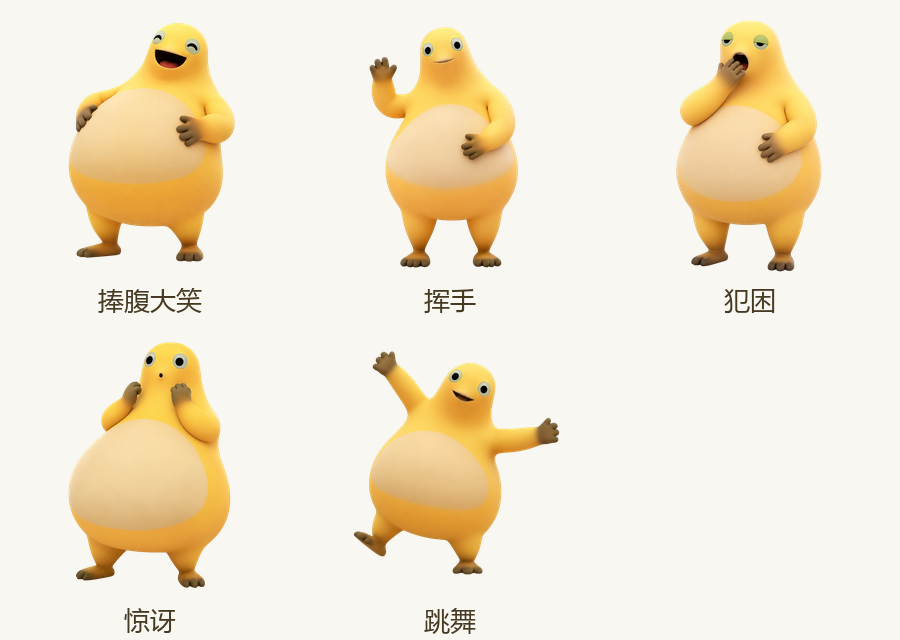
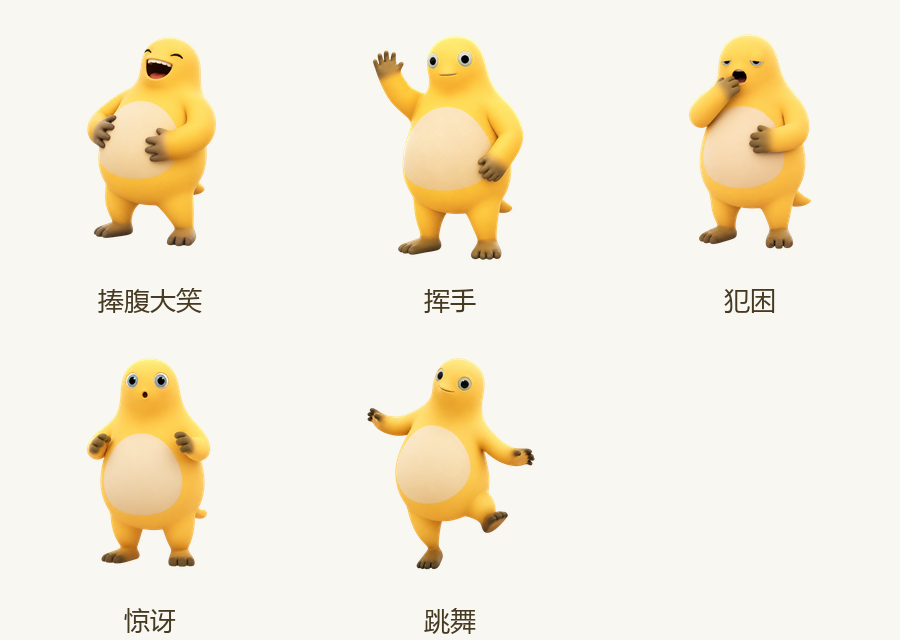
refresh-action-artwork

diff --git a/README.md b/README.md
@@ -11,7 +11,7 @@
 - 自动记住上次的位置和大小
 - 通过边缘连通区域检测去除 GIF 白色及灰色背景
 - 内置奶娃脸部多尺寸 Windows 应用图标
-- 捧腹大笑、挥手、犯困、惊讶和跳舞五种大肚子动作
+- 捧腹大笑、挥手、犯困、惊讶和跳舞五种扩展动作
 - 随机状态机，也可通过右键菜单立即播放指定动作
 - Qt 跨平台透明窗口，支持 Windows、macOS 和 Linux
 
@@ -41,3 +41,6 @@ python build_cross_platform.py
 ## 许可证
 
 项目代码使用 [MIT License](LICENSE) 开源。请确保在再分发时拥有动画素材 `奶娃.gif` 的相应使用权。
+
+扩展动作的角色比例、配色和表现形式参考了 MIT 开源项目
+[timerring/codex-pet-naiwa](https://github.com/timerring/codex-pet-naiwa)，并为本项目重新制作；原“思考”GIF 保持不变。
